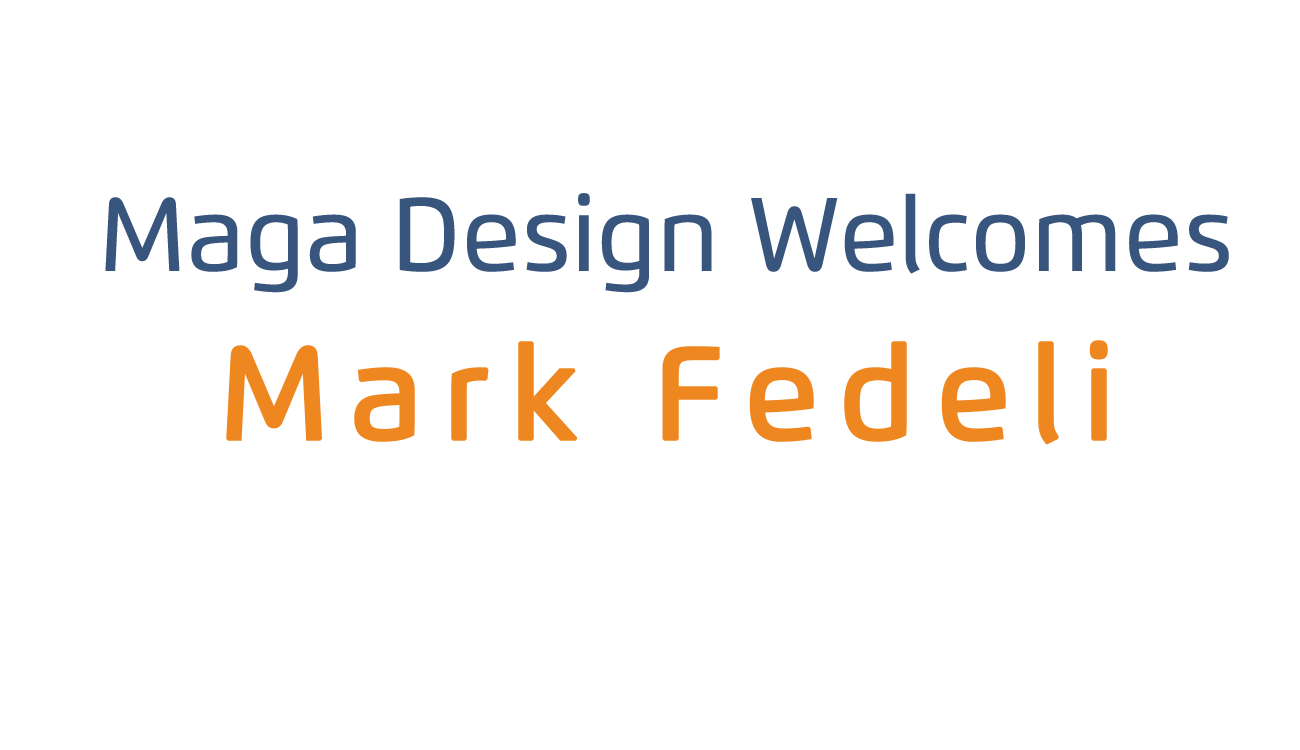
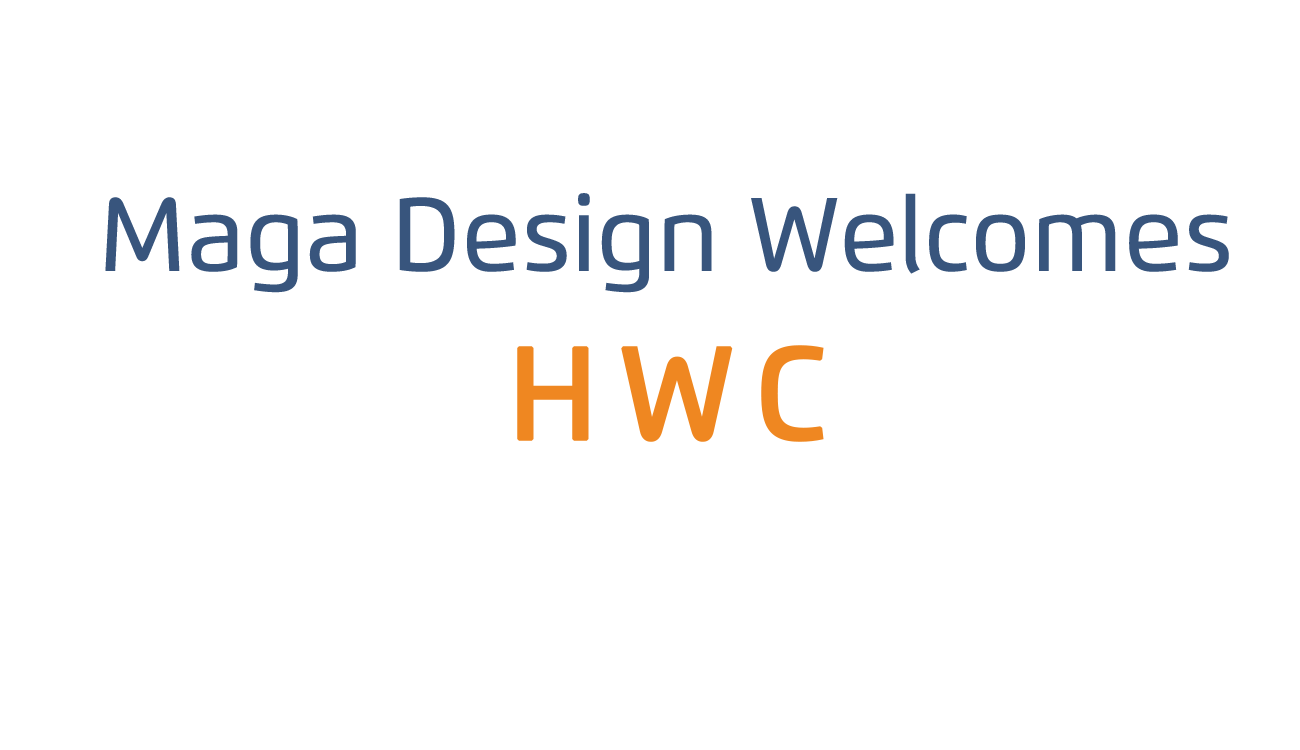
added welcome sign

Changed region(s): [[0.1538, 0.46, 0.8615, 0.6133]]

diff --git a/index.html b/index.html
@@ -138,7 +138,7 @@
 			<div id="slide2" class="slide"></div>
 			<div id="slide3" class="slide"></div>
 			<div id="slide4" class="slide"></div>
-			<!--<div id="slide5" class="slide"></div><!--welcome screen--> 
+			<div id="slide5" class="slide"></div><!--welcome screen--> 
 		</div><!--wrapper ends-->
 
 		<div class="maga-logo"><div id="authorize-button">Log In</div><div id="authorize-button-logout"><a href="https://accounts.google.com/logout">Log Out</a></div>

diff --git a/style.css b/style.css
@@ -51,7 +51,7 @@ body {
 
 .wrapper {
 	height: 850px;
-	width: 5300px;  /*6500 with welcome screen && 5300 without welcome screen */
+	width: 6500px;  /*6500 with welcome screen && 5300 without welcome screen */
 }
 
 p {
